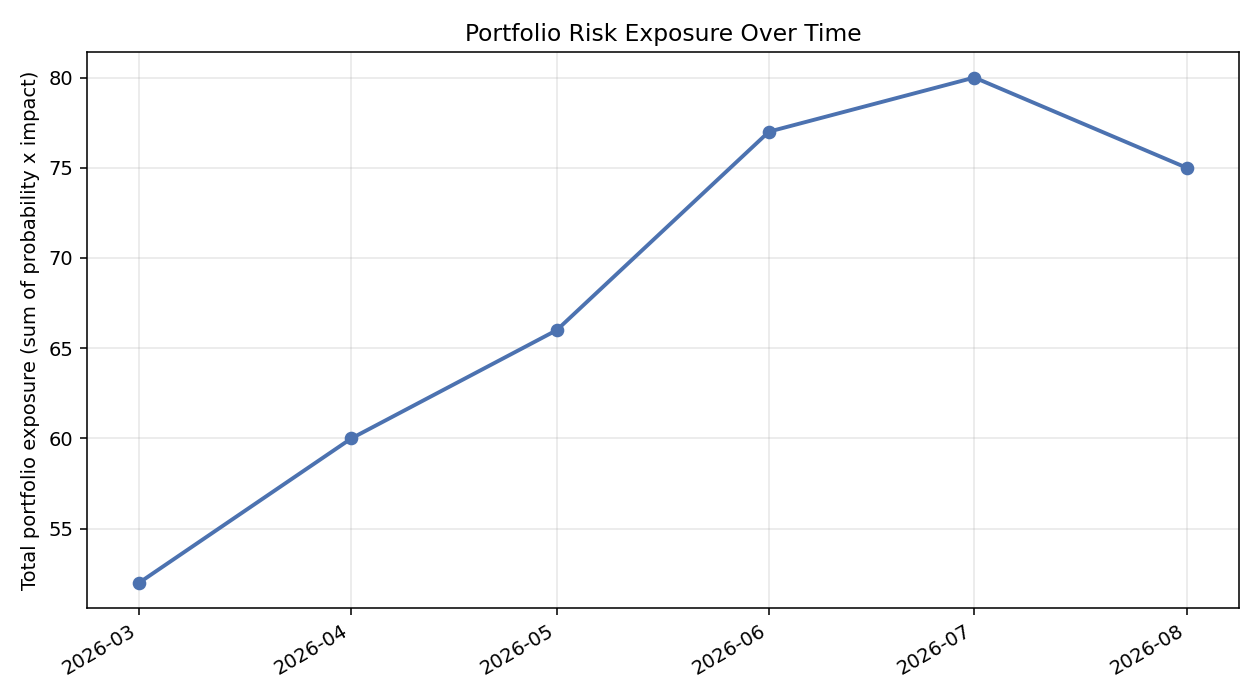
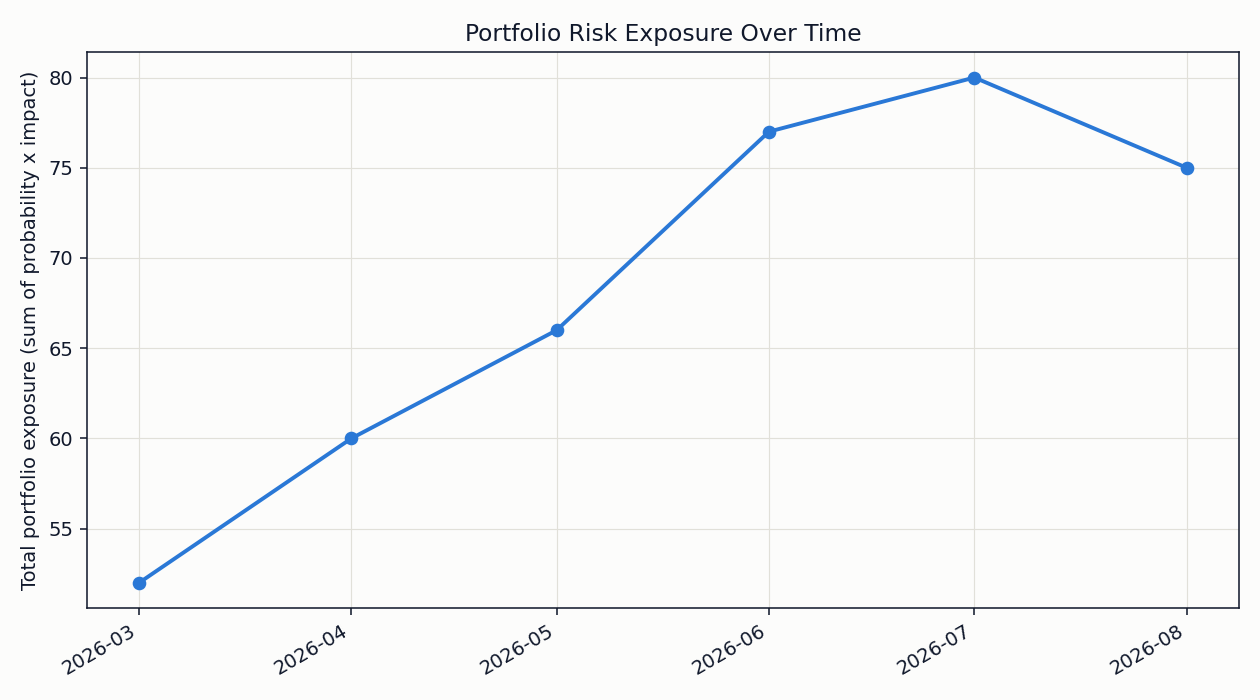
Standardize chart color system across the toolkit

diff --git a/risk_tracker.py b/risk_tracker.py
@@ -20,9 +20,40 @@ from src import metrics
 DATA_DIR = os.path.join(os.path.dirname(__file__), "data")
 ASSETS_DIR = os.path.join(os.path.dirname(__file__), "assets")
 
-TREND_COLORS = {"Worsening": "#C44E52", "Improving": "#55A868",
-                 "Stable": "#8C8C8C", "Closed/Resolved": "#4C72B0"}
-VERDICT_COLORS = {"Effective": "#55A868", "Ineffective": "#C44E52", "Too early to assess": "#8C8C8C"}
+# Standardized chart color system (chart chrome, status scale, categorical series, baseline)
+CHART_BG = "#fcfcfb"
+INK = "#10182b"
+GRID = "#e1e0d9"
+BASELINE = "#3a4d7a"
+SERIES_1 = "#2a78d6"
+STATUS_GOOD = "#0ca30c"
+STATUS_WARNING = "#fab219"
+STATUS_CRITICAL = "#d03b3b"
+
+# Worsening/Stable/Improving is a severity trend, so it takes the status scale.
+# "Closed/Resolved" isn't a severity level (a resolved risk isn't "critical" or
+# "good", it's simply no longer active) so it keeps its own categorical color,
+# same role the old ad-hoc blue played here.
+TREND_COLORS = {"Worsening": STATUS_CRITICAL, "Improving": STATUS_GOOD,
+                 "Stable": STATUS_WARNING, "Closed/Resolved": SERIES_1}
+VERDICT_COLORS = {"Effective": STATUS_GOOD, "Ineffective": STATUS_CRITICAL, "Too early to assess": STATUS_WARNING}
+
+
+def _apply_chrome(fig, axes) -> None:
+    """Apply the standardized chart chrome (background, ink, gridlines) to a figure."""
+    fig.patch.set_facecolor(CHART_BG)
+    if hasattr(axes, "flatten"):
+        axes = axes.flatten().tolist()
+    elif not isinstance(axes, (list, tuple)):
+        axes = [axes]
+    for ax in axes:
+        ax.set_facecolor(CHART_BG)
+        ax.title.set_color(INK)
+        ax.xaxis.label.set_color(INK)
+        ax.yaxis.label.set_color(INK)
+        ax.tick_params(colors=INK)
+        for spine in ax.spines.values():
+            spine.set_color(INK)
 
 
 def print_report(exposure_trend, trajectory, effectiveness, score: dict) -> None:
@@ -62,13 +93,14 @@ def print_report(exposure_trend, trajectory, effectiveness, score: dict) -> None
 def chart_exposure_trend(exposure_trend) -> None:
     fig, ax = plt.subplots(figsize=(9, 5))
     ax.plot(exposure_trend["snapshot_date"].to_numpy(), exposure_trend["total_exposure"].to_numpy(),
-            color="#4C72B0", linewidth=2, marker="o")
+            color=SERIES_1, linewidth=2, marker="o")
     ax.set_ylabel("Total portfolio exposure (sum of probability x impact)")
     ax.set_title("Portfolio Risk Exposure Over Time")
-    ax.grid(alpha=0.3)
+    ax.grid(color=GRID, linewidth=0.6)
+    _apply_chrome(fig, ax)
     fig.autofmt_xdate()
     fig.tight_layout()
-    fig.savefig(os.path.join(ASSETS_DIR, "exposure_trend.png"), dpi=140)
+    fig.savefig(os.path.join(ASSETS_DIR, "exposure_trend.png"), dpi=140, facecolor=CHART_BG)
     plt.close(fig)
 
 
@@ -93,9 +125,10 @@ def chart_trajectory(trajectory) -> None:
     ax.set_title("Per-Risk Trajectory: First vs Latest Exposure")
     handles = [plt.Line2D([0], [0], color=c, linewidth=2, label=k) for k, c in TREND_COLORS.items()]
     ax.legend(handles=handles, loc="upper left", fontsize=8)
-    ax.grid(alpha=0.3, axis="y")
+    ax.grid(color=GRID, linewidth=0.6, axis="y")
+    _apply_chrome(fig, ax)
     fig.tight_layout()
-    fig.savefig(os.path.join(ASSETS_DIR, "trajectory.png"), dpi=140)
+    fig.savefig(os.path.join(ASSETS_DIR, "trajectory.png"), dpi=140, facecolor=CHART_BG)
     plt.close(fig)
 
 
@@ -105,7 +138,7 @@ def chart_effectiveness(effectiveness) -> None:
     x = range(len(ranked))
     width = 0.35
     ax.bar([i - width / 2 for i in x], ranked["avg_exposure_before"], width,
-           label="Avg exposure before due date", color="#8C8C8C")
+           label="Avg exposure before due date", color=BASELINE)
     colors = [VERDICT_COLORS[v] for v in ranked["verdict"]]
     ax.bar([i + width / 2 for i in x], ranked["avg_exposure_after"], width,
            label="Avg exposure after due date", color=colors)
@@ -114,9 +147,10 @@ def chart_effectiveness(effectiveness) -> None:
     ax.set_ylabel("Average exposure")
     ax.set_title("Mitigation Effectiveness (color = verdict on the 'after' bar)")
     ax.legend(fontsize=8)
-    ax.grid(alpha=0.3, axis="y")
+    ax.grid(color=GRID, linewidth=0.6, axis="y")
+    _apply_chrome(fig, ax)
     fig.tight_layout()
-    fig.savefig(os.path.join(ASSETS_DIR, "mitigation_effectiveness.png"), dpi=140)
+    fig.savefig(os.path.join(ASSETS_DIR, "mitigation_effectiveness.png"), dpi=140, facecolor=CHART_BG)
     plt.close(fig)
 
 
